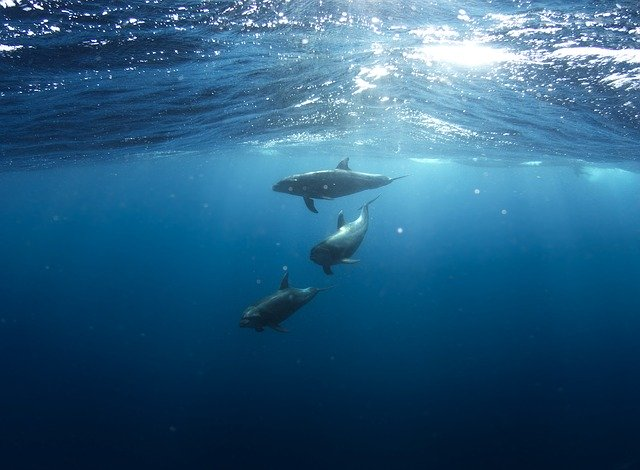
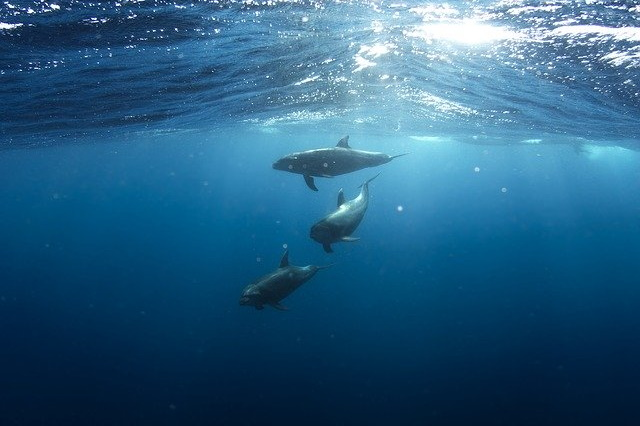
fix images size

diff --git a/news.html b/news.html
@@ -38,7 +38,7 @@
                 <div class="date">00.00.0000</div>
             </div>
             <div class="article-image">
-                <img src=".\media\dolphins.jpg" alt="news" />
+                <img src="./media/dolphins.jpg" alt="news" />
             </div>
             <div class="article-text">
                 Заголовок, блок article-meta (дата публикации, автор),
@@ -100,7 +100,7 @@
                 <div class="date">33.33.3333</div>
             </div>
             <div class="article-image">
-                <img src=".\media\sea.jpg">
+                <img src=".\media\bear.jpg">
             </div>
             <div class="article-text">
                 Выше мы добавили последние стили. Задали цвет фону блока новостей. 
@@ -120,7 +120,7 @@
                 <div class="date">44.44.4444</div>
             </div>
             <div class="article-image">
-                <img src=".\media\dolphins.jpg">
+                <img src="media/swimmers.jpg">
             </div>
             <div class="article-text">
                 Введите свой ответ на вопрос. Вы можете сохранить свою работу и завершить её 
@@ -140,7 +140,7 @@
                 <div class="date">55.55.5555</div>
             </div>
             <div class="article-image">
-                <img src="https://pixabay.com/get/51e9d3434c4faa0df7c5997cc221317d123bdbe152_640.jpg">
+                <img src="media/woman.jpg">
             </div>
             <div class="article-text">
                 На выполнение этого задания вам даётся три недели с открытия модуля. 

diff --git a/style.css b/style.css
@@ -104,6 +104,7 @@ article {
 
 article img {
     width: 100%;
+    max-height: 50%;
 }
 
 article a {
